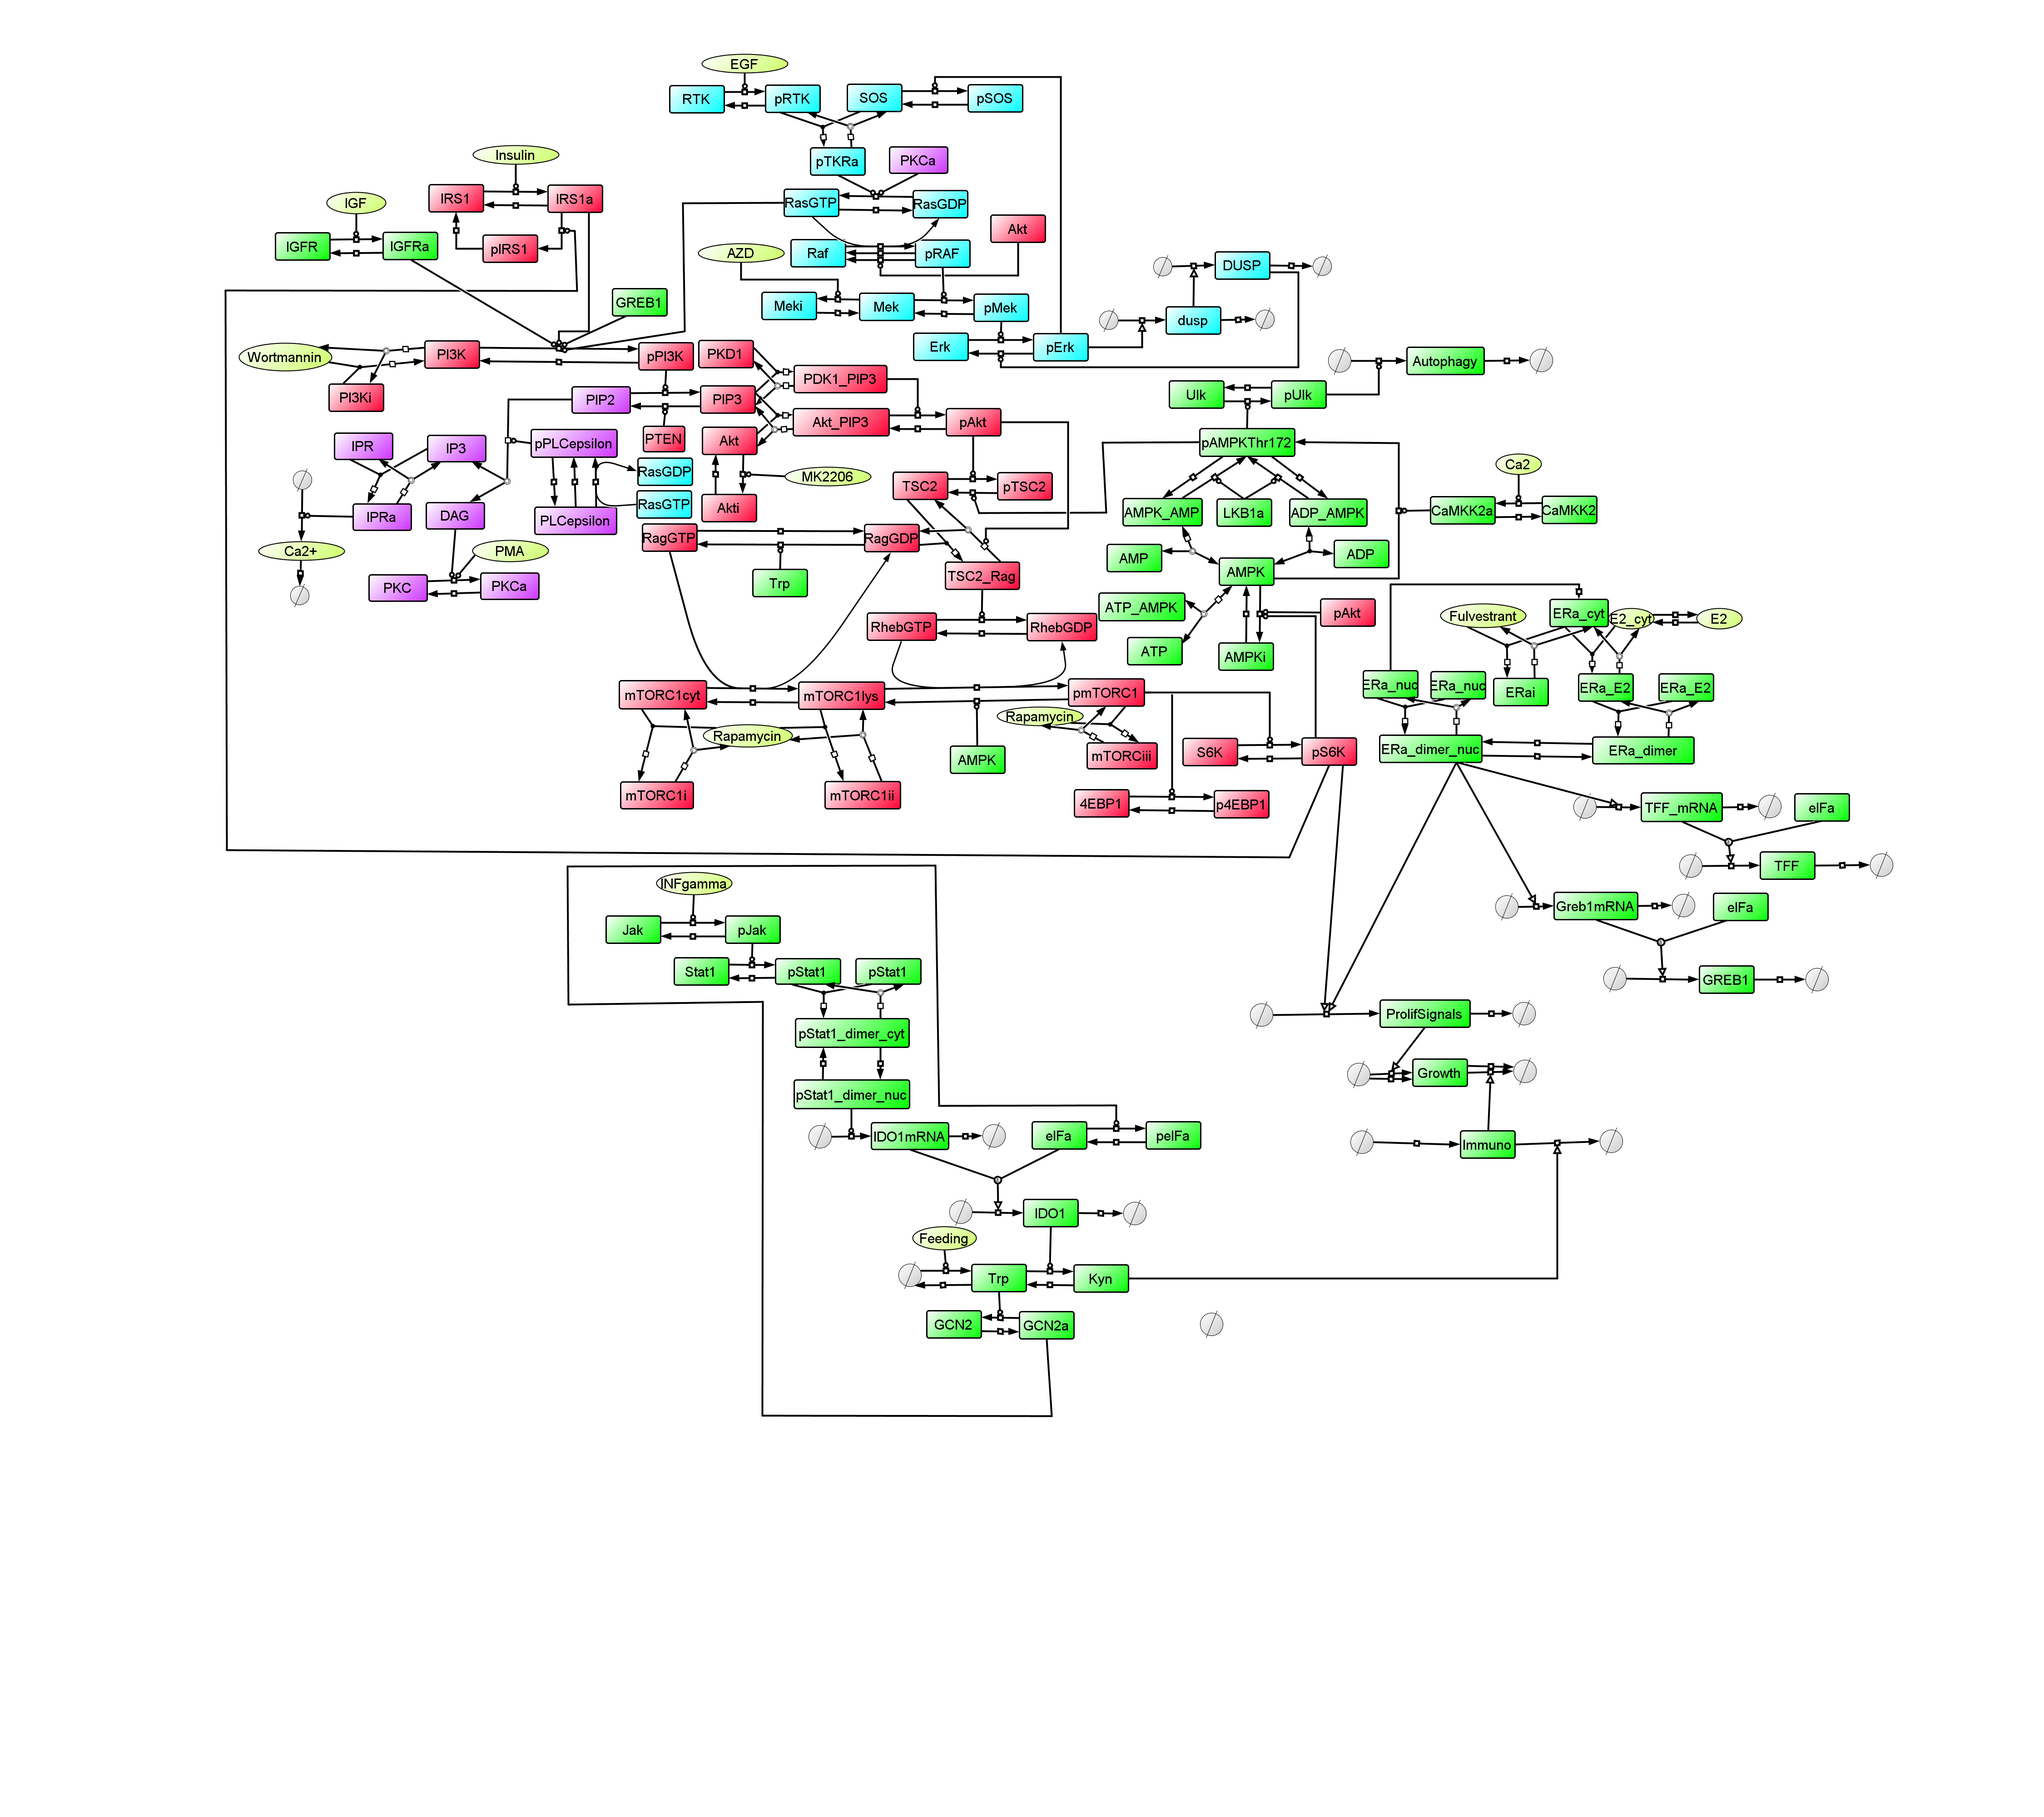
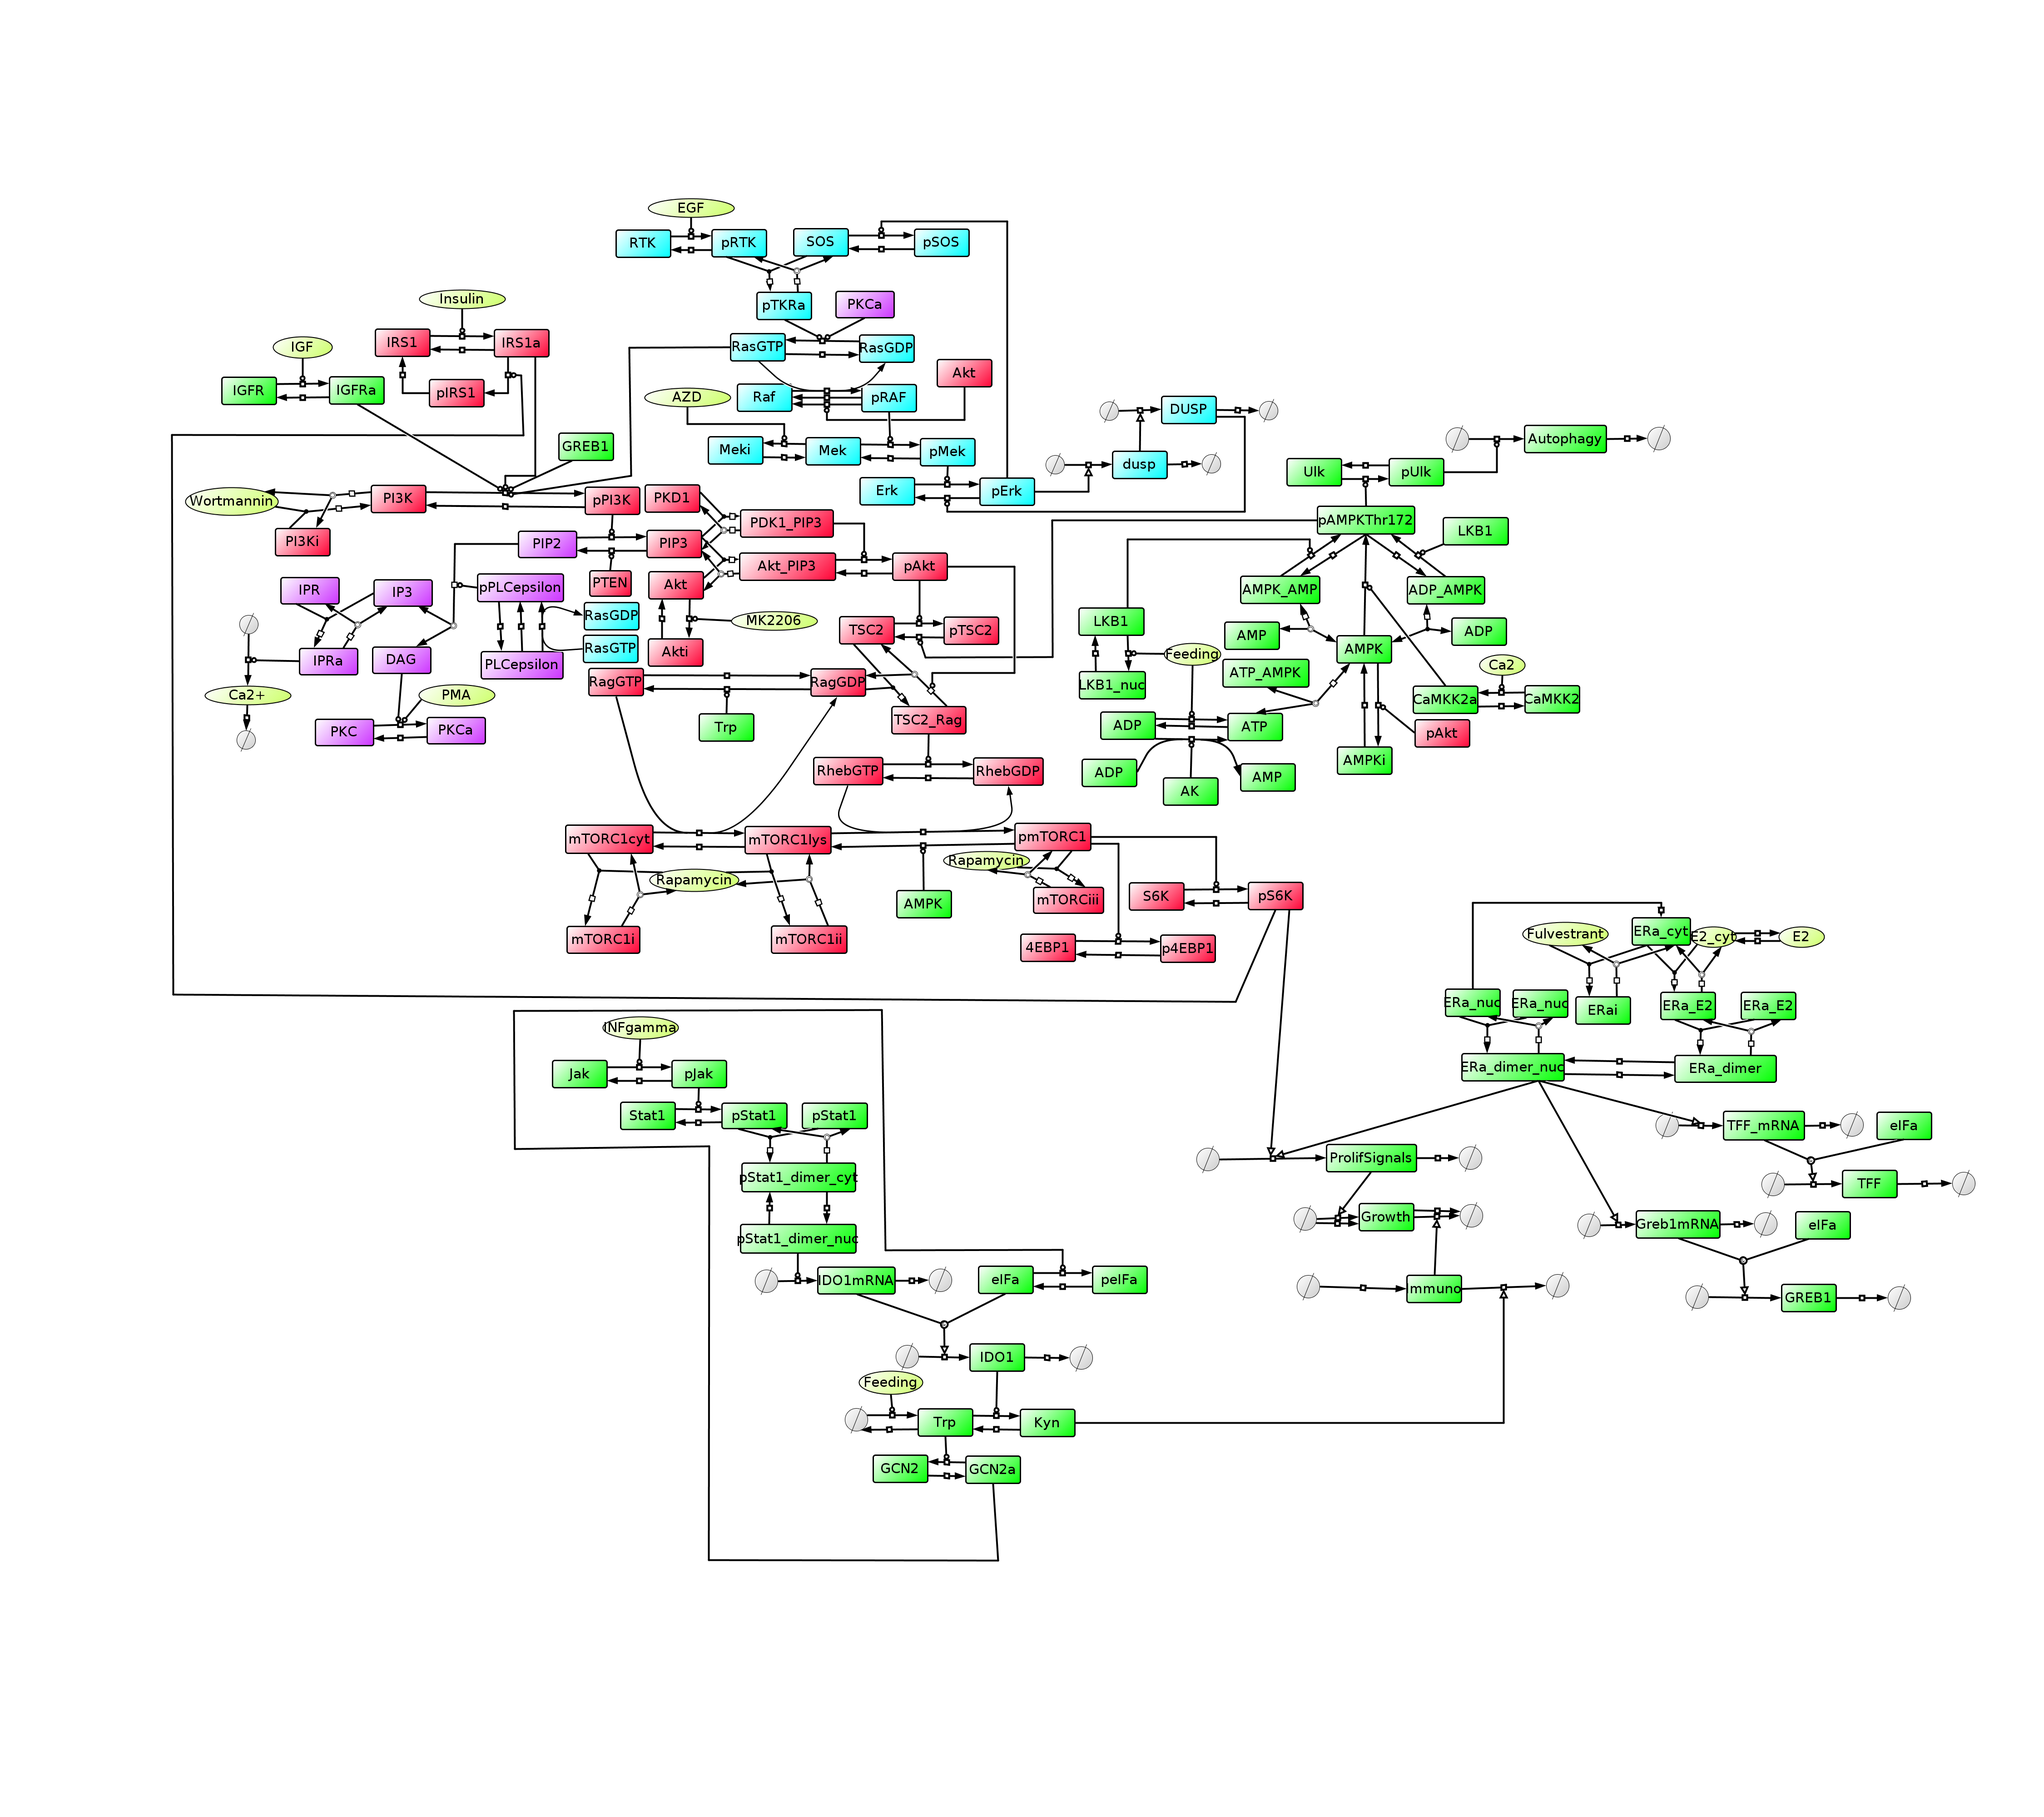
update topology ampk

Changed region(s): [[0.0933, 0.0312, 0.9644, 0.8438]]

diff --git a/example_networks/extended_model_string.py b/example_networks/extended_model_string.py
@@ -111,8 +111,8 @@ model ComplexModel
     var eIFa           in Cell;
     var peIFa          in Cell;
     var PTEN           in Cell;
-    var LKB1a          in Cell;
     var LKB1           in Cell;
+    var LKB1_nuc        in Cell;
     var ERa_cyti        in Cell;
     var Trp             in Cell;
     var AK             in Cell;
@@ -402,8 +402,6 @@ model ComplexModel
     eIFa                    = 10;                        
     peIFa                   = 0; 
     PTEN                    = 10;                       
-    LKB1a                   = 0;                       
-    LKB1                    = 10;         
     Trp                     = 0;              
 
     // reactions
@@ -460,9 +458,9 @@ model ComplexModel
     R16AMPK3b   : AMPK_ATP => AMPK + ATP                    ; Cell * kAMPKUnbindATP*AMPK_ATP;
     R16AMPKif   : AMPK => pAMPKi                            ; Cell * kAMPKInhibByAkt*AMPK*pAkt;
     R16AMPKib   : pAMPKi => AMPK                            ; Cell * kAMPKDephos*pAMPKi;
-    R17f1       : AMPK_AMP => pAMPK                         ; Cell * kAMPKAMPActByLKB1*AMPK_AMP*LKB1a
+    R17f1       : AMPK_AMP => pAMPK                         ; Cell * kAMPKAMPActByLKB1*AMPK_AMP*LKB1
     R17b1       : pAMPK => AMPK_AMP                         ; Cell * kAMPKInact*pAMPK
-    R17f2       : AMPK_ADP => pAMPK                         ; Cell * kAMPKADPActByLKB1*AMPK_ADP*LKB1a
+    R17f2       : AMPK_ADP => pAMPK                         ; Cell * kAMPKADPActByLKB1*AMPK_ADP*LKB1
     R17b2       : pAMPK => AMPK_ADP                         ; Cell * kAMPKInact*pAMPK
     R17f3       : AMPK => pAMPK                             ; Cell * kAMPKActByCaMKK2*AMPK*CaMKK2a;
     R17b3       : pAMPK => AMPK                             ; Cell * kAMPKInact*pAMPK;
@@ -470,9 +468,9 @@ model ComplexModel
     R18b        : CaMKK2a => CaMKK2                         ; Cell * kCaMKK2Inact*CaMKK2a;    
     R19In       : ADP => ATP                                ; Cell * kATPIn*ADP*Feeding
     R19Out      : ATP => ADP                                ; Cell * kATPUsage*ATP
-    R20f        : LKB1_nuc => LKB1                          ; Cell * kLKB1ToCyt*LKB1_nuc*Feeding;
-    R20b        : LKB1 => LKB1_nuc                          ; Cell * kLKB1ToNuc*LKB1;
-    R21f        : ADP + ADP => ATP + AMP                      ; Cell * kAK*AK*ADP^2;
+    R20f        : LKB1_nuc => LKB1                          ; Cell * kLKB1ToCyt*LKB1_nuc;
+    R20b        : LKB1 => LKB1_nuc                          ; Cell * kLKB1ToNuc*LKB1*Feeding;
+    R21f        : ADP + ADP => ATP + AMP                    ; Cell * kAK*AK*ADP^2;
 
      
     // Erk pathway

diff --git a/web_interface/run_timeseries.py b/web_interface/run_timeseries.py
@@ -6,7 +6,7 @@ import site
 
 site.addsitedir(os.path.dirname(os.path.dirname(__file__)))
 from qualitative_model_fitting import TimeSeries
-from example_networks.growth_model_string import model_string
+from example_networks.extended_model_string import model_string
 
 parser = argparse.ArgumentParser()
 parser.add_argument('start', type=int)

diff --git a/web_interface/extended_pi3k_with_dash/app.py b/web_interface/extended_pi3k_with_dash/app.py
@@ -5,7 +5,7 @@ from dash.dependencies import Input, Output
 import os
 import numpy as np
 from qualitative_model_fitting import TimeSeries
-from example_networks.growth_model_string import model_string
+from example_networks.extended_model_string import model_string
 import plotly.graph_objs as go
 from collections import OrderedDict
 

diff --git a/example_networks/control_script.py b/example_networks/control_script.py
@@ -4,7 +4,7 @@ import numpy as np
 from collections import OrderedDict
 
 import qualitative_model_fitting as qmf
-from example_networks.growth_model_string import model_string
+from example_networks.extended_model_string import model_string
 from example_networks import WD, PLOTS_DIR
 import logging
 
